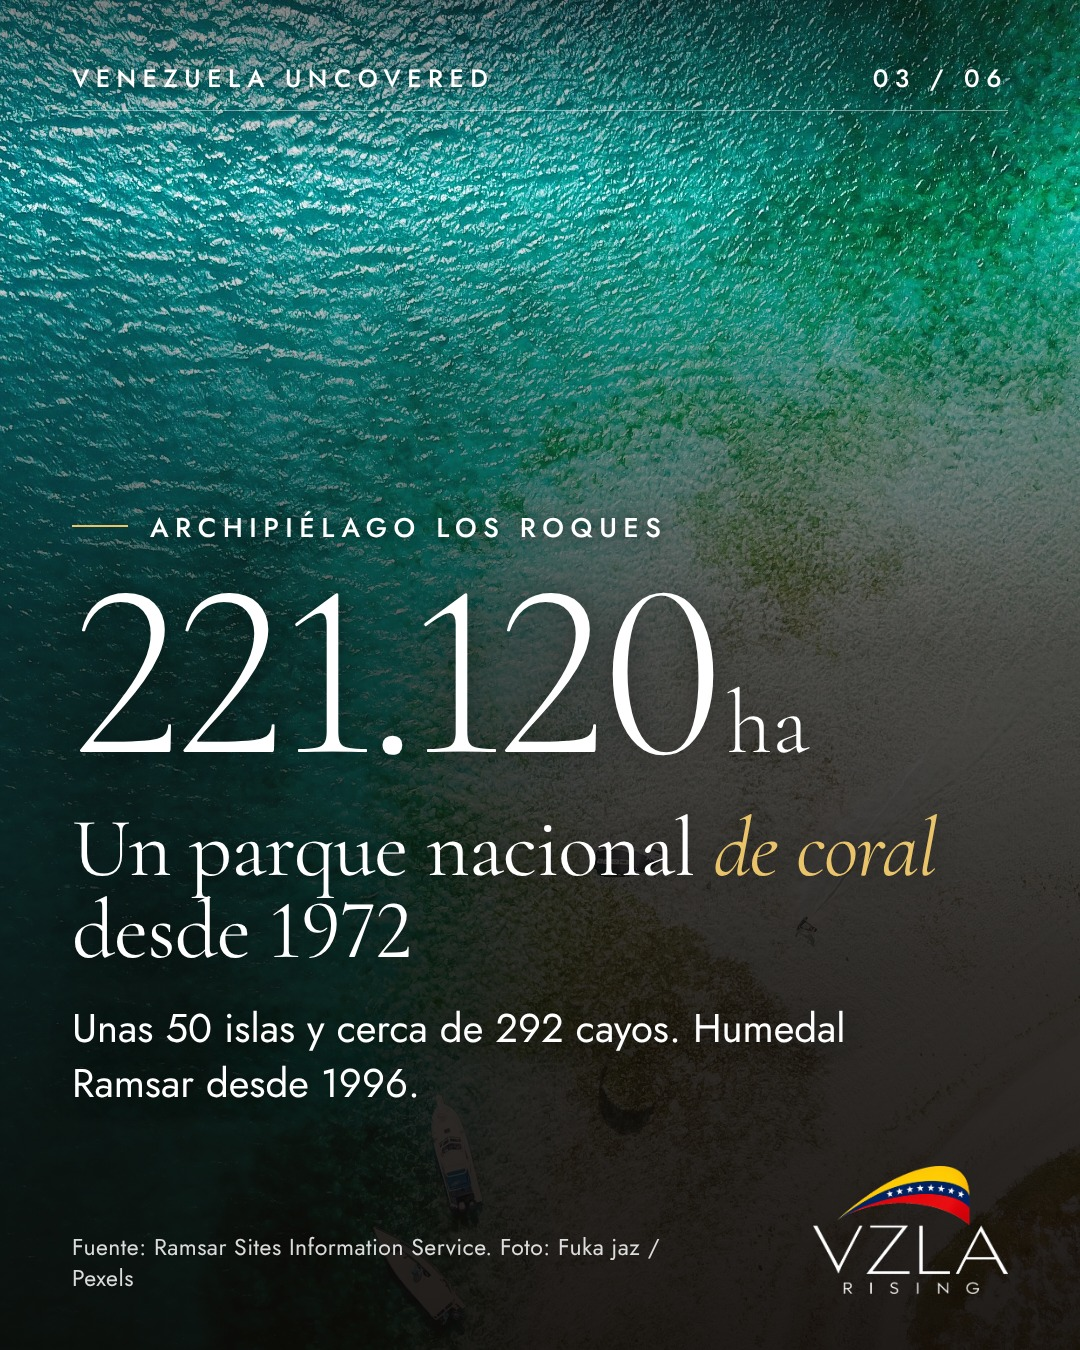
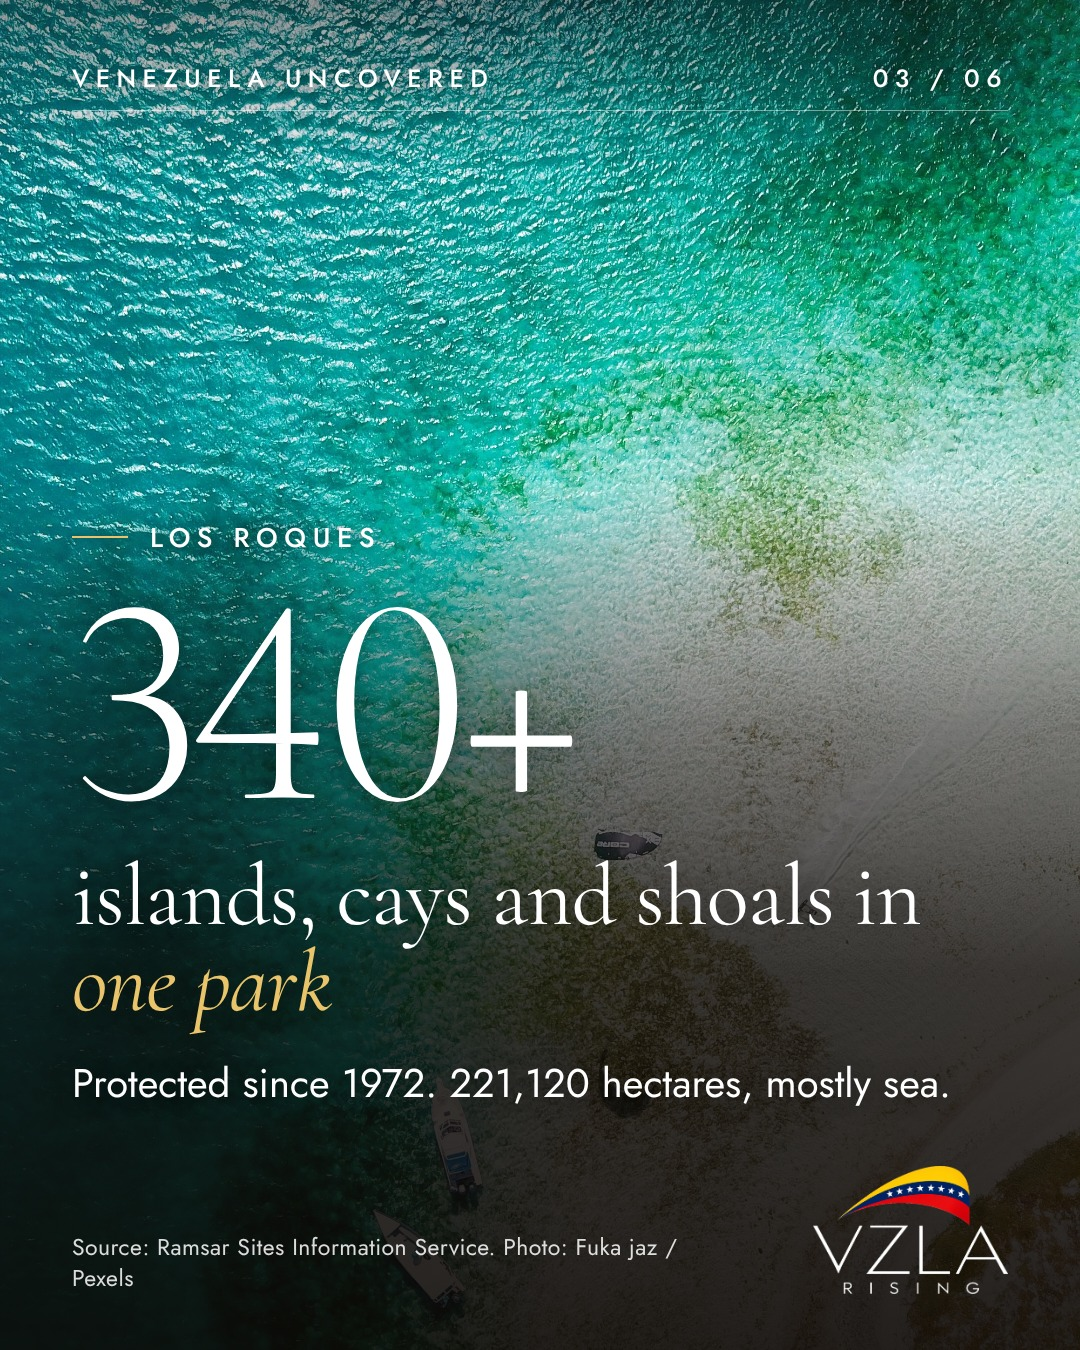
v4 carousels: English slides, sunny photos, lighter veil; EN+ES captions
Claude-Session: https://claude.ai/code/session_01KPCgjeTyZ2Nz8Xz9vAXGjv

diff --git a/templates/engine-v4/posts3.py b/templates/engine-v4/posts3.py
@@ -1,0 +1,143 @@
+import asyncio
+from pathlib import Path
+from eco2 import *
+
+OUT = Path('/home/claude/build/out4')
+DV = 'background:linear-gradient(180deg,rgba(12,9,6,.40) 0%,rgba(12,9,6,0) 13%,rgba(12,9,6,.05) 30%,rgba(12,9,6,.52) 44%,rgba(12,9,6,.66) 70%,rgba(12,9,6,.82) 100%)'
+
+# ---------------- POST 01 ----------------
+L1, T1 = 'Venezuela Uncovered', 6
+p1 = [
+ ('slide01', slide('photo', L1, 1, T1, '''<div class=txt>
+  <div class=kick>Six landscapes, one country</div>
+  <div class=h style="font-size:146px">More than <em>the headlines</em></div>
+  <div class=p>Beaches, tepuis, Andes and coral islands.</div></div>''',
+  'Choroní, Aragua. Photo: Maria Isabella Bernotti / Pexels', 'pexels-35434553-choroni.jpg', '50% 50%')),
+ ('slide02', slide('photo', L1, 2, T1, '''<div class=txt>
+  <div class=kick>Angel Falls, Canaima</div>
+  <div class=num style="font-size:340px">979<small>m</small></div>
+  <div class=h style="font-size:88px;margin-top:30px">One of the <em>tallest</em> waterfalls on Earth</div>
+  <div class=p>Canaima is a UNESCO World Heritage Site since 1994.</div></div>''',
+  'Sources: UNESCO; Robertson survey, 1949. Photo: Ederik Palencia Ferreira / Pexels', 'pexels-7360544-canaima.jpg', '50% 50%')),
+ ('slide03', slide('photo', L1, 3, T1, '''<div class=txt>
+  <div class=kick>Los Roques</div>
+  <div class=num style="font-size:300px">340+</div>
+  <div class=h style="font-size:88px;margin-top:30px">islands, cays and shoals in <em>one park</em></div>
+  <div class=p>Protected since 1972. 221,120 hectares, mostly sea.</div></div>''',
+  'Source: Ramsar Sites Information Service. Photo: Fuka jaz / Pexels', 'pexels-18558367-losroques-aerial.jpg', '50% 25%')),
+ ('slide04', slide('photo', L1, 4, T1, '''<div class=txt>
+  <div class=kick>The Andes, Mérida</div>
+  <div class=num style="font-size:300px">4,978<small>m</small></div>
+  <div class=h style="font-size:88px;margin-top:30px">Pico Bolívar, <em>the top</em> of Venezuela</div></div>''',
+  'Source: Pérez et al., Interciencia 2005. Photo: Arturo A / Pexels', 'pexels-16654093-merida-bluesky.jpg', '50% 40%')),
+ ('slide05', slide('photo', L1, 5, T1, '''<div class=txt>
+  <div class=kick>The Caribbean coast</div>
+  <div class=num style="font-size:300px">2,800<small>km</small></div>
+  <div class=h style="font-size:88px;margin-top:30px">of coastline, <em>mostly Caribbean</em></div></div>''',
+  'Source: CIA World Factbook. Photo: Daniel Patiño / Pexels', 'pexels-1434406-falcon-beach.jpg', '50% 50%')),
+ ('slide06', slide('cream', L1, 6, T1, f'''
+  <div style="position:absolute;left:72px;right:72px;top:160px">
+   <div class=kick>One of 17 megadiverse countries</div>
+   <div class=h style="font-size:96px">Where would you<br><em>go first?</em></div></div>
+  <div style="position:absolute;left:72px;top:430px">{venmap([('roques','Los Roques','start'),('margarita','Margarita','start'),('bolivar','Andes','end'),('llanos','Llanos','end'),('angel','Canaima','end'),('roraima','Roraima','start')])}</div>
+  <div style="position:absolute;left:72px;right:72px;top:1065px;font:400 34px/1.35 Jost">Tell us in the comments. Save it for your next trip.</div>''',
+  'Source: Conservation International')),
+]
+
+# ---------------- POST 02 ----------------
+L2, T2 = 'Venezuela in Motion', 5
+p2 = [
+ ('slide01', slide('photo', L2, 1, T2, '''<div class=txt>
+  <div class=kick>Business</div>
+  <div class=h style="font-size:136px">Capital is <em>coming</em> to Caracas</div>
+  <div class=p>Funds, fintech and flights. What is real, and what to check.</div></div>''',
+  'Caracas. Photo: Andy Art and design / Pexels', 'pexels-29518260-caracas-sunset.jpg', '50% 55%')),
+ ('slide02', slide('photo', L2, 2, T2, '''<div class=txt>
+  <div class=kick>Startup Venezuela Summit</div>
+  <div class=num style="font-size:340px">25</div>
+  <div class=h style="font-size:88px;margin-top:24px">investment funds in <em>Caracas</em></div>
+  <div class=p>October 21-23, opened by Richard Branson. ~40 international guests, up from 10 in 2023.</div></div>''',
+  'Source: Bloomberg Línea, Oct 2026 (organiser figures). Photo: Juan Carlos Fernández Alemán / Pexels', 'pexels-39879583-avila.jpg', '50% 30%')),
+ ('slide03', slide('cream', L2, 3, T2, f'''
+  <div style="position:absolute;left:72px;right:72px;top:170px">
+   <div class=kick>Fintech</div>
+   <div class=h style="font-size:100px">Cashea raised</div>
+   <div class=num style="font-size:300px;margin-top:20px">$100<small>M</small></div>
+   <div class=lab style="margin-top:30px">In 2026, in two rounds</div>
+   <div style="display:flex;height:70px;margin-top:40px"><div style="width:40%;background:{EARTH}"></div><div style="width:60%;background:{INK}"></div></div>
+   <div style="display:flex;margin-top:18px;font:500 32px Jost"><div style="width:40%">Series A - $40M</div><div style="width:60%">Series B - $60M</div></div>
+   <div class=p style="margin-top:56px"><b>10M+</b> accounts. <b>40,000</b> partner stores.</div></div>''',
+  'Source: Intelligent CIO, Aug 2026 (company figures)')),
+ ('slide04', slide('photo', L2, 4, T2, '''<div class=txt style="bottom:220px">
+  <div class=kick>Air links</div>
+  <div class=h style="font-size:100px;margin-bottom:30px">Flights <em>are back</em></div>
+  <div class=row><div style="flex:1"><div class=tag>Flying</div><div class=t>Qatar Airways - Doha</div></div></div>
+  <div class=row><div style="flex:1"><div class=tag>Flying</div><div class=t>Avianca - Bogotá</div></div></div>
+  <div class=row><div style="flex:1"><div class=tag>From Nov 26</div><div class=t>Copa - Panama to Margarita</div></div></div>
+  <div class=row><div style="flex:1"><div class=tag>Not confirmed</div><div class=t>United and JetBlue - USA</div></div></div></div>''',
+  'Source: Bloomberg Línea, Oct 7 2026. Photo: Maria Isabella Bernotti / Pexels', 'pexels-2570473-gran-roque-beach.jpg', '40% 100%;background-size:auto 125%', veil=DV)),
+ ('slide05', slide('dark', L2, 5, T2, f'''
+  <div style="position:absolute;left:72px;right:72px;top:170px">
+   <div class=kick>Our take</div>
+   <div class=h style="font-size:112px;margin-bottom:46px">The momentum is real. <em>So is the homework.</em></div>
+   <div class=row><div class=n>01</div><div class=t>Most figures come from companies</div></div>
+   <div class=row><div class=n>02</div><div class=t>Announced is not operating</div></div>
+   <div class=row><div class=n>03</div><div class=t>Compliance comes first</div></div>
+   <div class=h style="font-size:62px;margin-top:44px;color:{GOLD}"><em>What would you need to see to invest?</em></div></div>''',
+  'Not investment advice')),
+]
+
+# ---------------- POST 03 ----------------
+L3, T3 = 'Investment Perspectives', 6
+p3 = [
+ ('slide01', slide('photo', L3, 1, T3, '''<div class=txt>
+  <div class=kick>Destinations</div>
+  <div class=h style="font-size:146px">Isla Margarita, <em>underrated?</em></div>
+  <div class=p>Venezuela's classic island, with a new link to Panama.</div></div>''',
+  'Nueva Esparta. Photo: Diego Ruso Pérez / Pexels', 'pexels-29154539-nueva-esparta-aerial.jpg', '50% 50%')),
+ ('slide02', slide('photo', L3, 2, T3, '''<div class=txt>
+  <div class=kick>Pampatar, Margarita</div>
+  <div class=num style="font-size:320px">70+</div>
+  <div class=h style="font-size:88px;margin-top:24px">beaches on <em>78 km</em> of island</div>
+  <div class=p>1,020 km², a former free port, decades of tourism.</div></div>''',
+  'Source: Margarita Island geography. Photo: Vika Glitter / Pexels', 'pexels-26241556-pampatar.jpg', '30% 50%')),
+ ('slide03', slide('cream', L3, 3, T3, f'''
+  <div style="position:absolute;left:72px;right:72px;top:170px">
+   <div class=kick>Nueva Esparta State</div>
+   <div class=h style="font-size:96px">Two peninsulas,<br><em>one island</em></div></div>
+  <div style="position:absolute;left:72px;top:450px">{margmap([('asuncion','La Asunción','end',-4,'cap'),('porlamar','Porlamar','end',12,'dot'),('pampatar','Pampatar','start',-30,'dot'),('juangriego','Juan Griego','end',-8,'dot'),('airport','Airport','end',26,'dot'),('macanao','Macanao','',0,'area'),('restinga','La Restinga','',12,'area')])}</div>
+  <div style="position:absolute;left:72px;right:72px;top:1065px;font:400 34px/1.35 Jost">Wild west, busy east.</div>''',
+  'Source: Margarita Island geography')),
+ ('slide04', slide('photo', L3, 4, T3, '''<div class=txt>
+  <div class=kick>Connectivity</div>
+  <div class=num style="font-size:320px">3<small>flights a week</small></div>
+  <div class=h style="font-size:88px;margin-top:24px">Panama - Margarita, <em>from Nov 26</em></div>
+  <div class=p>Copa links the island to its regional hub. Announced route.</div></div>''',
+  'Sources: El Diario; Bloomberg Línea, 2026. Photo: RITRATTO VISUAL / Pexels', 'pexels-32699745-margarita-lighthouse.jpg', '50% 15%')),
+ ('slide05', slide('photo', L3, 5, T3, '''<div class=txt style="bottom:220px">
+  <div class=kick>Hypotheses, not forecasts</div>
+  <div class=h style="font-size:100px;margin-bottom:30px">Where the <em>opportunity</em> could be</div>
+  <div class=row><div class=n>01</div><div class=t>Upgrade hotels before building new</div></div>
+  <div class=row><div class=n>02</div><div class=t>Low-density boutique stays</div></div>
+  <div class=row><div class=n>03</div><div class=t>Margarita + Los Roques trips</div></div></div>''',
+  'VZLA Rising analysis. Photo: RITRATTO VISUAL / Pexels', 'pexels-32690921-nueva-esparta.jpg', '55% 50%', veil=DV)),
+ ('slide06', slide('dark', L3, 6, T3, f'''
+  <div style="position:absolute;left:72px;right:72px;top:170px">
+   <div class=kick>Before you invest</div>
+   <div class=h style="font-size:112px;margin-bottom:40px">Check <em>these six</em></div>
+   <div class=row style="padding:22px 0"><div class=n>01</div><div class=t>Land title</div></div>
+   <div class=row style="padding:22px 0"><div class=n>02</div><div class=t>Sanctions compliance</div></div>
+   <div class=row style="padding:22px 0"><div class=n>03</div><div class=t>Water and power</div></div>
+   <div class=row style="padding:22px 0"><div class=n>04</div><div class=t>Zoning and permits</div></div>
+   <div class=row style="padding:22px 0"><div class=n>05</div><div class=t>Currency and payments</div></div>
+   <div class=row style="padding:22px 0"><div class=n>06</div><div class=t>Real demand data</div></div>
+   <div class=h style="font-size:60px;margin-top:34px;color:{GOLD}"><em>What would make Margarita investable?</em></div></div>''',
+  'Not legal or financial advice')),
+]
+
+POSTS = {'post01': p1, 'post02': p2, 'post03': p3}
+async def main():
+    for k, v in POSTS.items():
+        await render(v, OUT / k)
+        sheet(OUT / k, [n for n, _ in v], OUT / f'{k}_sheet.jpg')
+asyncio.run(main())

diff --git a/templates/engine-v4/eco2.py b/templates/engine-v4/eco2.py
@@ -28,7 +28,7 @@ html,body{width:1080px;height:1350px}
 body{font-family:'Jost',sans-serif;-webkit-font-smoothing:antialiased}
 .s{position:relative;width:1080px;height:1350px;overflow:hidden;color:var(--fg);background:var(--bg)}
 .bg{position:absolute;inset:0;background-size:cover}
-.veil{position:absolute;inset:0;background:linear-gradient(180deg,rgba(12,9,6,.50) 0%,rgba(12,9,6,0) 14%,rgba(12,9,6,.38) 28%,rgba(12,9,6,.70) 48%,rgba(12,9,6,.84) 72%,rgba(12,9,6,.92) 100%)}
+.veil{position:absolute;inset:0;background:linear-gradient(180deg,rgba(12,9,6,.42) 0%,rgba(12,9,6,0) 13%,rgba(12,9,6,0) 36%,rgba(12,9,6,.5) 54%,rgba(12,9,6,.8) 72%,rgba(12,9,6,.9) 100%)}
 .top{position:absolute;top:60px;left:72px;right:72px;display:flex;justify-content:space-between;
   font:500 25px 'Jost';letter-spacing:.26em;text-transform:uppercase;z-index:3}
 .top.ph{text-shadow:0 1px 14px rgba(0,0,0,.45)}
@@ -49,6 +49,7 @@ body{font-family:'Jost',sans-serif;-webkit-font-smoothing:antialiased}
 .row{display:flex;gap:28px;align-items:baseline;padding:26px 0;border-top:1px solid var(--line)}
 .row .n{font:300 54px 'Cormorant';color:var(--acc);width:70px;flex:none}
 .row .t{font:500 38px/1.25 'Jost'}
+.ph .row .t,.ph .tag,.ph .row .n{text-shadow:0 1px 18px rgba(0,0,0,.55)}
 .row .d{font:400 30px/1.35 'Jost';opacity:.85;margin-top:6px}
 .ph .kick{color:#fff;text-shadow:0 1px 16px rgba(0,0,0,.6)}
 .kick:before{content:'';display:inline-block;width:56px;height:2px;background:var(--acc);vertical-align:middle;margin-right:22px;position:relative;top:-4px}

diff --git a/2026-11/post03_isla_margarita/caption.md b/2026-11/post03_isla_margarita/caption.md
@@ -1,24 +1,24 @@
-# Post 03 - Isla Margarita, ¿el Caribe subestimado?
+# Isla Margarita, Underrated?
 
-Pillar: Investment Perspectives - Fri 6 Nov 2026, 18:00 Europe/Rome (12:00 Miami) - 6 slides
+Investment Perspectives - Fri 6 Nov 2026, 18:00 Rome / 12:00 Miami - 6 slides
 
 ## Caption
 
-Más de 70 playas en 78 km de isla, y un nuevo vuelo a Panamá desde el 26 de noviembre. 🇻🇪
+70+ beaches. 78 km of island. A new flight to Panama from Nov 26. 🇻🇪
 
-Isla Margarita es desde hace décadas el gran destino de playa de Venezuela, con historia de puerto libre. Copa anunció tres vuelos semanales entre Panamá y Porlamar, que conectan la isla con uno de los principales hubs de la región.
+Isla Margarita is Venezuela's classic island destination. Copa will fly Panama to Porlamar three times a week.
 
-¿Dónde podría estar la oportunidad? Nuestras hipótesis: reposicionar hoteles existentes antes que construir, estancias boutique de baja densidad en Macanao y La Restinga, e itinerarios que unan Margarita con Los Roques.
+Where could the opportunity be? Upgrading hotels before building new, low-density boutique stays, and trips combined with Los Roques.
 
-Antes de todo, lo básico: títulos, sanciones, servicios, permisos, moneda y datos reales de demanda.
+First, the basics: land title, sanctions, utilities, permits, payments and real demand data.
 
-¿Qué haría a Margarita invertible para ti?
+What would make Margarita investable for you?
 
-EN | 70+ beaches, 78 km of island and a new Panama link from 26 November. Reposition before building, low-density boutique stays, and due diligence first.
+ES | Más de 70 playas y un nuevo vuelo a Panamá. Oportunidades posibles, pero primero la debida diligencia. ¿Qué haría a Margarita invertible para ti?
 
 #IslaMargarita #Hospitality #Venezuela
 
 ## First comment
 
-Fuentes / Sources: datos geográficos de Isla Margarita (Wikipedia); El Diario, ago. 2026 y Bloomberg Línea, oct. 2026 (ruta Copa Panamá-Porlamar, anunciada). Hipótesis y checklist: análisis editorial VZLA Rising, no es asesoría de inversión, legal ni financiera.
-Fotos: RITRATTO VISUAL, Vika Glitter (Pexels).
+Sources: Margarita Island geography (Wikipedia); El Diario, Aug 2026; Bloomberg Línea, Oct 2026 (announced route). Hypotheses are VZLA Rising analysis, not investment, legal or financial advice.
+Photos: Diego Ruso Pérez, Vika Glitter, RITRATTO VISUAL (Pexels).

diff --git a/2026-11/post02_capital_comes_to_caracas/caption.md b/2026-11/post02_capital_comes_to_caracas/caption.md
@@ -1,24 +1,22 @@
-# Post 02 - El capital llega a Caracas
+# Capital Is Coming to Caracas
 
-Pillar: Venezuela in Motion - Wed 4 Nov 2026, 18:00 Europe/Rome (12:00 Miami) - 5 slides
+Venezuela in Motion - Wed 4 Nov 2026, 18:00 Rome / 12:00 Miami - 5 slides
 
 ## Caption
 
-25 fondos de inversión se reunieron en Caracas en octubre. 🇻🇪
+25 investment funds met in Caracas in October. 🇻🇪
 
-La sexta edición del Startup Venezuela Summit (21 al 23 de octubre) fue inaugurada por Richard Branson y reunió, según los organizadores, a unos 40 invitados internacionales, frente a 10 en 2023.
+The Startup Venezuela Summit (Oct 21-23) was opened by Richard Branson. Fintech Cashea raised $100M in 2026. And flights are returning: Qatar Airways and Avianca already fly in, Copa adds Panama to Margarita from Nov 26.
 
-El dinero no es solo conversación: la fintech Cashea levantó US$100 millones en 2026 y reporta más de 10 millones de cuentas. Y vuelven los vuelos: Qatar Airways y Avianca ya operan a Caracas, Copa unirá Panamá con Margarita desde el 26 de noviembre.
+The momentum is real. So is the homework: most figures come from companies, and compliance comes first.
 
-Nuestra lectura: el impulso es real, pero muchas cifras vienen de empresas y organizadores. Primero, la debida diligencia.
+What would you need to see to invest?
 
-¿Qué necesitarías ver para invertir en Venezuela?
-
-EN | 25 investment funds met in Caracas in October. Cashea raised US$100M in 2026 and air links are returning. Momentum is real; due diligence comes first.
+ES | 25 fondos en Caracas, US$100M para Cashea y vuelven los vuelos. El impulso es real, la debida diligencia también. ¿Qué necesitarías ver para invertir?
 
 #Venezuela #Startups #Caracas
 
 ## First comment
 
-Fuentes / Sources: Bloomberg Línea, oct. 2026 (Startup Venezuela Summit, cifras de los organizadores; rutas aéreas, 7 oct. 2026); Intelligent CIO, ago. 2026 (Cashea, cifras de la empresa). No es asesoría de inversión.
-Fotos: Andy Art and design, Joaquim Pacheco, Juan Carlos Fernández Alemán (Pexels).
+Sources: Bloomberg Línea, Oct 2026 (summit, organiser figures; air routes, Oct 7); Intelligent CIO, Aug 2026 (Cashea, company figures). Not investment advice.
+Photos: Andy Art and design, Juan Carlos Fernández Alemán, Maria Isabella Bernotti (Pexels).

diff --git a/2026-11/post01_venezuela_uncovered/caption.md b/2026-11/post01_venezuela_uncovered/caption.md
@@ -1,24 +1,22 @@
-# Post 01 - Venezuela es más que los titulares
+# Venezuela: More Than the Headlines
 
-Pillar: Venezuela Uncovered - Mon 2 Nov 2026, 18:00 Europe/Rome (12:00 Miami) - 6 slides
+Venezuela Uncovered - Mon 2 Nov 2026, 18:00 Rome / 12:00 Miami - 6 slides
 
 ## Caption
 
-Venezuela es más que los titulares. 🇻🇪
+Venezuela is more than the headlines. 🇻🇪
 
-En un solo país: el Salto Ángel cae 979 m desde un tepuy en Canaima, Los Roques protege 221.120 hectáreas de arrecifes e islas, el Pico Bolívar llega a 4.978 m y, en medio, los Llanos se abren hasta el horizonte.
+Angel Falls drops 979 m in Canaima. Los Roques protects 340+ islands, cays and shoals. Pico Bolívar reaches 4,978 m. And 2,800 km of coastline, mostly Caribbean.
 
-Es uno de los 17 países megadiversos del planeta. Aquí empieza VZLA Rising: descubrir sus lugares, su transformación y sus oportunidades, con datos.
+One of the world's 17 megadiverse countries.
 
-¿Cuál visitarías primero?
+Where would you go first?
 
-EN | Venezuela is more than the headlines. Angel Falls drops 979 m in Canaima, Los Roques protects 221,120 ha of reefs, Pico Bolívar reaches 4,978 m. One of the world's 17 megadiverse countries.
+ES | Venezuela es más que los titulares: el Salto Ángel, Los Roques, el Pico Bolívar y 2.800 km de costa. ¿A dónde irías primero?
 
-Which would you visit first?
-
-#Venezuela #ViajarPorVenezuela #VZLARising
+#Venezuela #TravelVenezuela #VZLARising
 
 ## First comment
 
-Fuentes / Sources: UNESCO (Canaima); medición Robertson 1949 (Salto Ángel); Ramsar Sites Information Service (Los Roques); Pérez et al., Interciencia 2005 (Pico Bolívar); Conservation International (países megadiversos).
-Fotos: Frank Araujo, Ederik Palencia Ferreira, Fuka jaz (Pexels); Pedro Romero, Jean-Luc Crucifix (Unsplash).
+Sources: UNESCO; Robertson survey 1949; Ramsar Sites Information Service; Pérez et al., Interciencia 2005; CIA World Factbook; Conservation International.
+Photos: Maria Isabella Bernotti, Ederik Palencia Ferreira, Fuka jaz, Arturo A, Daniel Patiño (Pexels).
